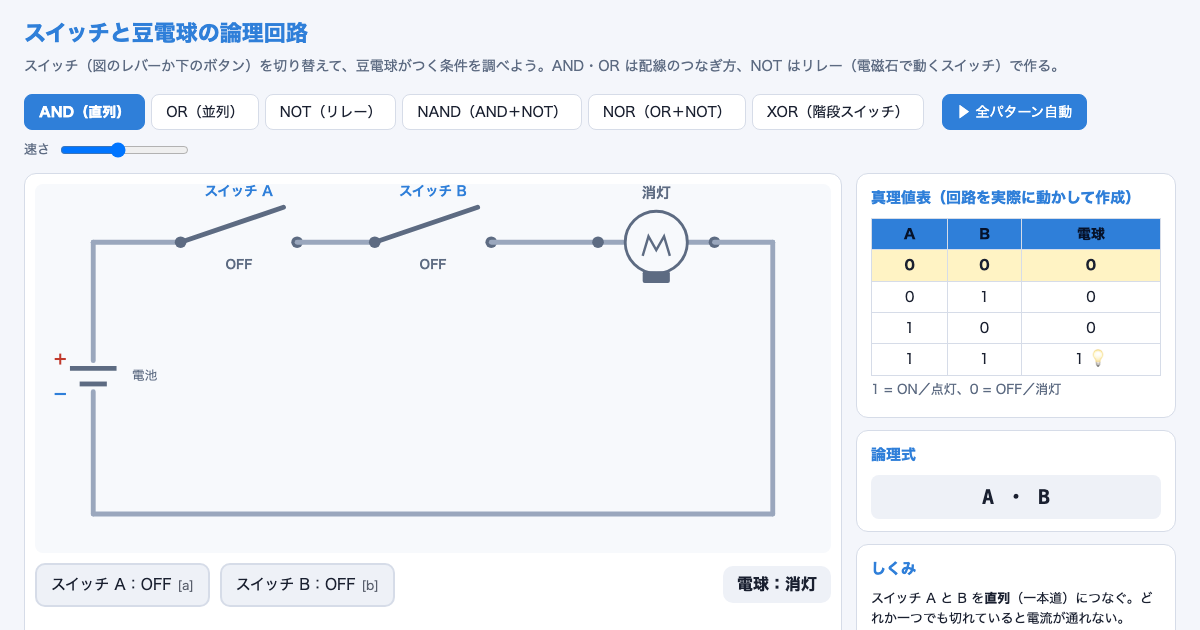
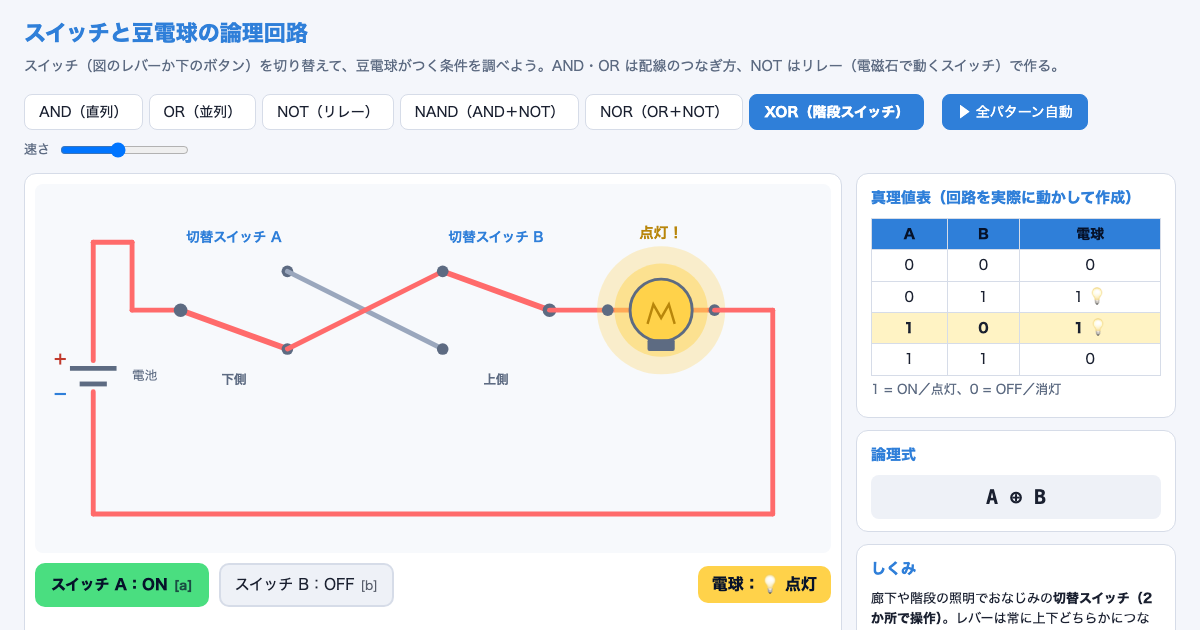
サムネイルを再生ボタンなしの構図で全教材撮り直し、make_ogp.py に撮影設定を組み込み、CLAUDE.md に撮影方法を追記

diff --git a/scripts/make_ogp.py b/scripts/make_ogp.py
@@ -1,22 +1,73 @@
 #!/usr/bin/env python3
-"""docs/*.html に OGP タグを挿入し、docs/img/X.png（1200x630）を Chrome ヘッドレスで撮影する。
-使い方: python3 scripts/make_ogp.py [X ...]   （省略時は og:image 未設定の全教材）
-既に og:image があるページは HTML をスキップ（--force で画像のみ撮り直し可）。"""
-import html, re, subprocess, sys
+"""docs/*.html に OGP タグを入れ、サムネイル docs/img/X.png（1200x630）を Chrome ヘッドレスで撮影する。
+
+撮影方法: 一時コピーの </body> 直前に教材ごとの JS（ADVANCE）を差し込んで「少し進めた状態」にし、
+ページ全体を縦長ウィンドウで撮ってから、.layout（なければ .stage）の上端から 1200x630 を切り出す。
+→ ヘッダ・設定バー・再生ボタンが写らない。
+
+使い方: python3 scripts/make_ogp.py [X ...] [--force]
+  --force : og:image が既にあるページも画像を撮り直す（タグは重複して入れない）
+"""
+import html, re, subprocess, sys, tempfile
 from pathlib import Path
+from PIL import Image
 
 ROOT = Path(__file__).resolve().parent.parent
 DOCS, IMG = ROOT / "docs", ROOT / "docs" / "img"
 BASE = "https://kuramitsulab.github.io/AlgorithmDemo"
 CHROME = "/Applications/Google Chrome.app/Contents/MacOS/Google Chrome"
 SKIP = {"gcd"}  # 未公開・作業中
+W, H = 1200, 630
+
+def fr(f):  # frames[] の f 割の位置へ
+    return f"stop();goTo(Math.floor(frames.length*{f}));"
+
+# 教材ごとの「少し進めた状態」にする JS。anchor を 0 にすると切り出さず先頭から撮る。
+ADVANCE = {
+    "sort": fr(0.45), "maze": fr(0.5), "bpe": fr(0.1), "sieve": fr(0.35),
+    "beam": fr(0.5), "grad": fr(0.4), "jug": fr(0.4), "markov": fr(0.3),
+    "mnist": fr(0.5), "nw": fr(0.5), "nw2": fr(0.5), "recommend": fr(0.5),
+    "euclid": "document.querySelector('button[data-v=rect]').click();stop();goTo(2);",
+    "bucket": "[2,6,2,6,3,6].forEach(apply);",
+    "monte": "stop();var s=document.getElementById('nmax');s.value='10000';"
+             "s.dispatchEvent(new Event('change'));stop();goTo(2000);",
+    "ttt": "onCell(4);stop();goTo(Math.floor(frames.length*0.5));",
+    "othello": "human=0;for(var k=0;k<4;k++){place(legal(pos,turn)[0]);}human=B;stop();"
+               "onCell(legal(pos,turn)[0]);stop();goTo(Math.floor(frames.length*0.5));",
+    "hanoi": "goTab('viz');goTo(Math.floor(frames.length*0.4));",
+    "logic": "select('xor');Object.keys(state).slice(0,1).forEach(toggle);",
+    "adder": "select('full');Object.keys(state).slice(0,2).forEach(toggle);",
+    "tm": "['inc','inc','inc','write','right','inc','inc','write','right'].forEach(function(o){"
+          "document.querySelector('[data-op='+o+']').click();});",
+    "gpa": "",
+}
+ANCHOR_SEL = {"hanoi": "#modeViz .layout"}   # 既定は .layout / .stage 以外を基準にしたい教材
+MARGIN = {"hanoi": -4}   # 切り出し位置の余白（既定 12px）
+ANCHOR_TOP = {"logic", "adder", "tm"}   # 再生ボタンが無い対話型：先頭から撮る
+
+def chrome(*args):
+    return subprocess.run([CHROME, "--headless", "--disable-gpu", "--hide-scrollbars",
+                           "--virtual-time-budget=3000", *args], capture_output=True, text=True)
 
 def shoot(name):
     IMG.mkdir(exist_ok=True)
-    subprocess.run([CHROME, "--headless", "--disable-gpu", "--hide-scrollbars",
-                    "--window-size=1200,630", "--virtual-time-budget=3000",
-                    f"--screenshot={IMG / (name + '.png')}", f"file://{DOCS / (name + '.html')}"],
-                   check=True, capture_output=True)
+    src = (DOCS / f"{name}.html").read_text(encoding="utf-8")
+    js = ADVANCE.get(name, "")
+    sel = ANCHOR_SEL.get(name)
+    q = f"document.querySelector('{sel}')" if sel else "(document.querySelector('.layout')||document.querySelector('.stage'))"
+    probe = (f"var e={q};"
+             "document.title='Y='+Math.round(e?e.getBoundingClientRect().top+scrollY:0);")
+    with tempfile.TemporaryDirectory() as d:
+        tmp = Path(d) / f"{name}.html"
+        tmp.write_text(src.replace("</body>", f"<script>{js}{probe}</script></body>"), encoding="utf-8")
+        y = 0
+        if name not in ANCHOR_TOP:
+            out = chrome(f"--window-size={W},{H}", "--dump-dom", f"file://{tmp}").stdout
+            m = re.search(r"<title>Y=(\d+)", out)
+            y = max(0, int(m.group(1)) - MARGIN.get(name, 12)) if m else 0
+        full = Path(d) / "full.png"
+        chrome(f"--window-size={W},{y + H}", f"--screenshot={full}", f"file://{tmp}")
+        Image.open(full).crop((0, y, W, y + H)).save(IMG / f"{name}.png")
 
 def tags(name, title):
     parts = re.split(r"\s*—\s*", title, maxsplit=1)
@@ -28,8 +79,8 @@ def tags(name, title):
             f'<meta property="og:description" content="{e(d)}">\n'
             f'<meta property="og:url" content="{BASE}/{name}.html">\n'
             f'<meta property="og:image" content="{BASE}/img/{name}.png">\n'
-            f'<meta property="og:image:width" content="1200">\n'
-            f'<meta property="og:image:height" content="630">\n'
+            f'<meta property="og:image:width" content="{W}">\n'
+            f'<meta property="og:image:height" content="{H}">\n'
             f'<meta name="twitter:card" content="summary_large_image">')
 
 def main():
@@ -43,8 +94,8 @@ def main():
             print(f"skip {n}"); continue
         if "og:image" not in s:
             m = re.search(r"<title>(.*?)</title>", s, re.S)
-            s = s[:m.end()] + "\n" + tags(n, html.unescape(m.group(1).strip())) + s[m.end():]
-            p.write_text(s, encoding="utf-8")
+            p.write_text(s[:m.end()] + "\n" + tags(n, html.unescape(m.group(1).strip())) + s[m.end():],
+                         encoding="utf-8")
         shoot(n); print(f"ok   {n}")
 
 main()
